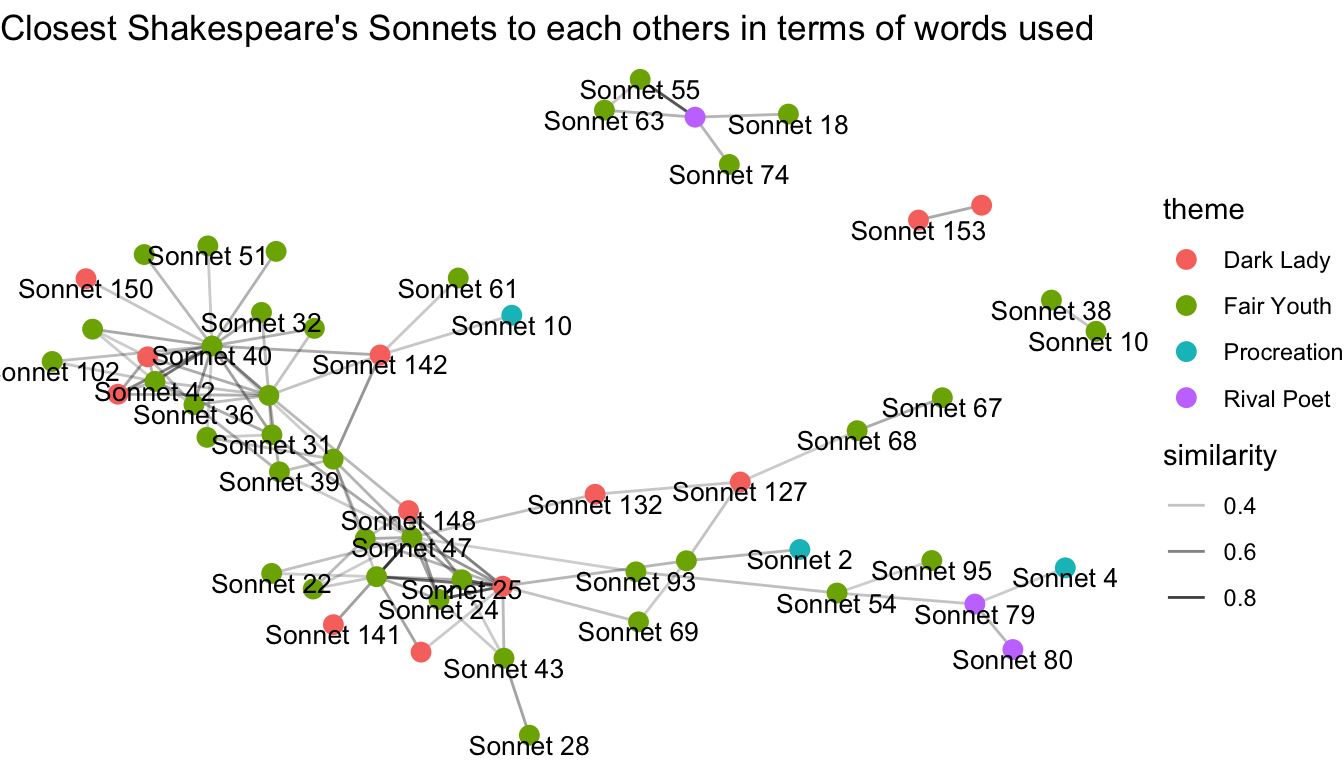
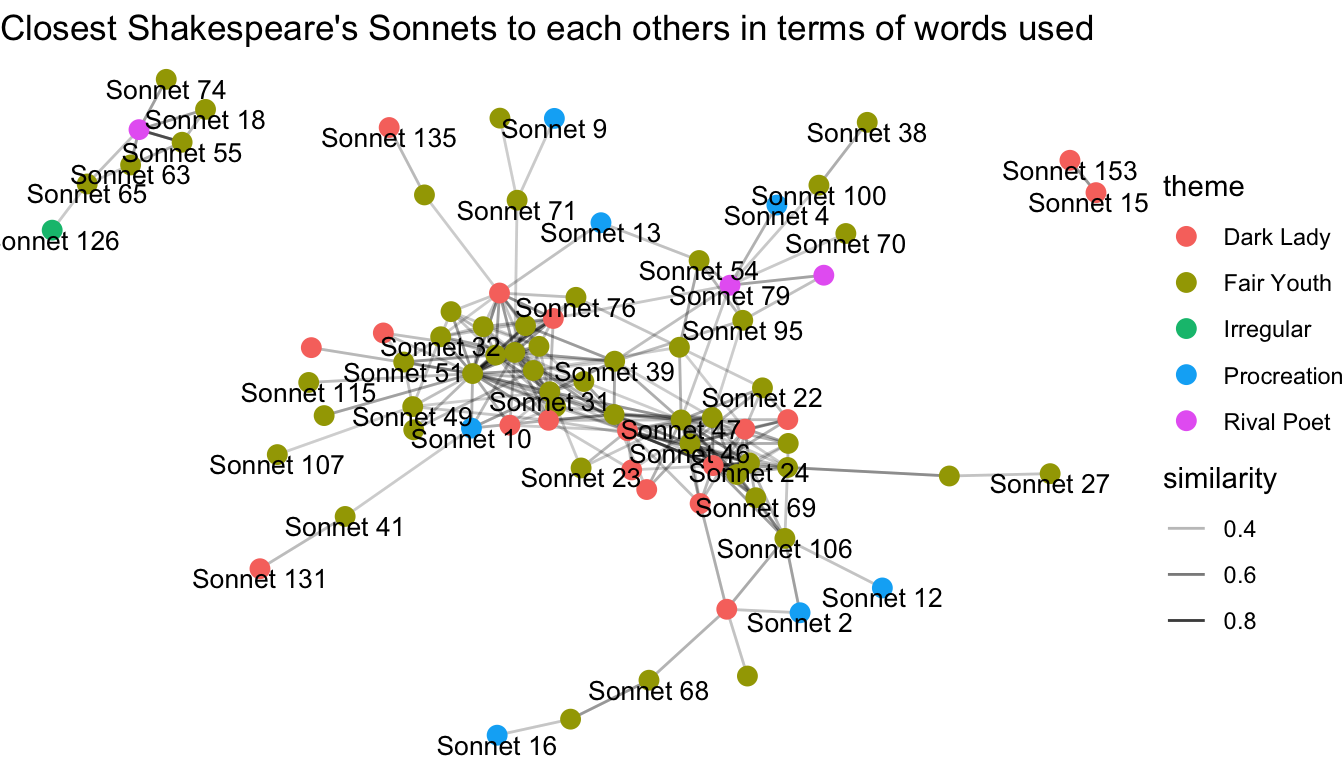
Website for CRAN release 0.1.4

Changed region(s): [[0.0, 0.0938, 1.0, 1.0]]

diff --git a/wikisourcer/articles/wikisourcer.html b/wikisourcer/articles/wikisourcer.html
@@ -30,7 +30,7 @@
       </button>
       <span class="navbar-brand">
         <a class="navbar-link" href="../index.html">wikisourcer</a>
-        <span class="label label-default" data-toggle="tooltip" data-placement="bottom" title="Released package">0.1.3</span>
+        <span class="label label-default" data-toggle="tooltip" data-placement="bottom" title="Released package">0.1.4</span>
       </span>
     </div>
 
@@ -163,42 +163,47 @@
 <a href="#download-pages" class="anchor"></a>Download pages</h2>
 <p>The <code>wikisource_book</code> function sometimes doesn’t work. It happens when the main url path differs from the ones of the linked urls or when the function fails to identify correctly the linked urls. This issue can easily be fixed using the <code>wikisource_page</code> function.</p>
 <p>The <code>wikisource_page</code> function has two arguments, i.e. the Wikisource url and an optional title for the page. For example, we can download <em>Sonnet 18</em> of William Shakespeare.</p>
-<div class="sourceCode" id="cb6"><pre class="sourceCode r"><code class="sourceCode r"><a class="sourceLine" id="cb6-1" data-line-number="1"><span class="kw"><a href="../reference/wikisource_page.html">wikisource_page</a></span>(<span class="dt">wikiurl =</span> <span class="st">"https://en.wikisource.org/wiki/Shakespeare%27s_Sonnets/Sonnet_18"</span>, </a>
-<a class="sourceLine" id="cb6-2" data-line-number="2">                <span class="dt">page =</span> <span class="st">"Sonnet 18"</span>)</a></code></pre></div>
-<pre><code>## # A tibble: 35 x 4
-##    text                   page    language url                             
-##    &lt;chr&gt;                  &lt;chr&gt;   &lt;chr&gt;    &lt;chr&gt;                           
-##  1 ""                     Sonnet… en       https://en.wikisource.org/wiki/…
-##  2 ""                     Sonnet… en       https://en.wikisource.org/wiki/…
-##  3 ""                     Sonnet… en       https://en.wikisource.org/wiki/…
-##  4 XVIII.                 Sonnet… en       https://en.wikisource.org/wiki/…
-##  5 ""                     Sonnet… en       https://en.wikisource.org/wiki/…
-##  6 ""                     Sonnet… en       https://en.wikisource.org/wiki/…
-##  7 ""                     Sonnet… en       https://en.wikisource.org/wiki/…
-##  8 ""                     Sonnet… en       https://en.wikisource.org/wiki/…
-##  9 Shall I compare thee … Sonnet… en       https://en.wikisource.org/wiki/…
-## 10 Thou art more lovely … Sonnet… en       https://en.wikisource.org/wiki/…
-## # … with 25 more rows</code></pre>
-<p>The <code>wikisource_book</code> function fails to download the 154 Sonnets from the main url “<a href="https://en.wikisource.org/wiki/Shakespeare%27s_Sonnets/" class="uri">https://en.wikisource.org/wiki/Shakespeare%27s_Sonnets/</a>”. We have to use <code>wikisource_page</code> to download them.</p>
+<div class="sourceCode" id="cb6"><pre class="sourceCode r"><code class="sourceCode r"><a class="sourceLine" id="cb6-1" data-line-number="1"><span class="kw"><a href="../reference/wikisource_page.html">wikisource_page</a></span>(<span class="st">"https://en.wikisource.org/wiki/Shakespeare's_Sonnets_(1883)/Sonnet_18"</span>, </a>
+<a class="sourceLine" id="cb6-2" data-line-number="2">                <span class="dt">page =</span> <span class="st">"Sonnet 18"</span>) <span class="op">%&gt;%</span></a>
+<a class="sourceLine" id="cb6-3" data-line-number="3"><span class="st">  </span>dplyr<span class="op">::</span><span class="kw"><a href="https://dplyr.tidyverse.org/reference/filter.html">filter</a></span>(<span class="op">!</span>(text <span class="op">%in%</span><span class="st"> </span><span class="kw">c</span>(<span class="st">""</span>,<span class="st">" "</span>))) <span class="co">#remove blank rows</span></a></code></pre></div>
+<pre><code>## # A tibble: 15 x 4
+##    text                     page    language url                           
+##    &lt;chr&gt;                    &lt;chr&gt;   &lt;chr&gt;    &lt;chr&gt;                         
+##  1 XVIII.                   Sonnet… en       https://en.wikisource.org/wik…
+##  2 Shall I compare thee to… Sonnet… en       https://en.wikisource.org/wik…
+##  3 Thou art more lovely an… Sonnet… en       https://en.wikisource.org/wik…
+##  4 Rough winds do shake th… Sonnet… en       https://en.wikisource.org/wik…
+##  5 And summer's lease hath… Sonnet… en       https://en.wikisource.org/wik…
+##  6 Sometime too hot the ey… Sonnet… en       https://en.wikisource.org/wik…
+##  7 And often is his gold c… Sonnet… en       https://en.wikisource.org/wik…
+##  8 And every fair from fai… Sonnet… en       https://en.wikisource.org/wik…
+##  9 By chance, or nature's … Sonnet… en       https://en.wikisource.org/wik…
+## 10 But thy eternal summer … Sonnet… en       https://en.wikisource.org/wik…
+## 11 Nor lose possession of … Sonnet… en       https://en.wikisource.org/wik…
+## 12 Nor shall death brag th… Sonnet… en       https://en.wikisource.org/wik…
+## 13 When in eternal lines t… Sonnet… en       https://en.wikisource.org/wik…
+## 14     So long as men can … Sonnet… en       https://en.wikisource.org/wik…
+## 15     So long lives this,… Sonnet… en       https://en.wikisource.org/wik…</code></pre>
+<p>The <code>wikisource_book</code> function fails to download the 154 Sonnets from the main url “<a href="https://en.wikisource.org/wiki/Shakespeare's_Sonnets" class="uri">https://en.wikisource.org/wiki/Shakespeare's_Sonnets</a>”. We have to use <code>wikisource_page</code> to download them.</p>
 <p>Let’s begin by creating a list of the 154 wikipages we want to download, using the R base function <code>paste0</code>.</p>
-<div class="sourceCode" id="cb8"><pre class="sourceCode r"><code class="sourceCode r"><a class="sourceLine" id="cb8-1" data-line-number="1">urls &lt;-<span class="st"> </span><span class="kw">paste0</span>(<span class="st">"https://en.wikisource.org/wiki/Shakespeare%27s_Sonnets/Sonnet_"</span>, <span class="dv">1</span><span class="op">:</span><span class="dv">154</span>)</a></code></pre></div>
+<div class="sourceCode" id="cb8"><pre class="sourceCode r"><code class="sourceCode r"><a class="sourceLine" id="cb8-1" data-line-number="1">urls &lt;-<span class="st"> </span><span class="kw">paste0</span>(<span class="st">"https://en.wikisource.org/wiki/Shakespeare's_Sonnets_(1883)/Sonnet_"</span>, <span class="dv">1</span><span class="op">:</span><span class="dv">154</span>)</a></code></pre></div>
 <p>Now we can download all the Sonnets with <code>purrr</code>.</p>
 <div class="sourceCode" id="cb9"><pre class="sourceCode r"><code class="sourceCode r"><a class="sourceLine" id="cb9-1" data-line-number="1">sonnets &lt;-<span class="st"> </span>purrr<span class="op">::</span><span class="kw"><a href="https://purrr.tidyverse.org/reference/map2.html">map2_df</a></span>(urls, <span class="kw">paste0</span>(<span class="st">"Sonnet "</span>, <span class="dv">1</span><span class="op">:</span><span class="dv">154</span>), wikisource_page)</a>
 <a class="sourceLine" id="cb9-2" data-line-number="2">sonnets</a></code></pre></div>
-<pre><code>## # A tibble: 3,618 x 4
-##    text                   page   language url                              
-##    &lt;chr&gt;                  &lt;chr&gt;  &lt;chr&gt;    &lt;chr&gt;                            
-##  1 ""                     Sonne… en       https://en.wikisource.org/wiki/S…
-##  2 ""                     Sonne… en       https://en.wikisource.org/wiki/S…
-##  3 ""                     Sonne… en       https://en.wikisource.org/wiki/S…
-##  4 HEAD OF EROS (CUPID),… Sonne… en       https://en.wikisource.org/wiki/S…
-##  5 ""                     Sonne… en       https://en.wikisource.org/wiki/S…
-##  6 "SONNETS. "            Sonne… en       https://en.wikisource.org/wiki/S…
-##  7 I.                     Sonne… en       https://en.wikisource.org/wiki/S…
-##  8 ""                     Sonne… en       https://en.wikisource.org/wiki/S…
-##  9 ""                     Sonne… en       https://en.wikisource.org/wiki/S…
-## 10 ""                     Sonne… en       https://en.wikisource.org/wiki/S…
-## # … with 3,608 more rows</code></pre>
+<pre><code>## # A tibble: 4,780 x 4
+##    text                  page    language url                              
+##    &lt;chr&gt;                 &lt;chr&gt;   &lt;chr&gt;    &lt;chr&gt;                            
+##  1 ""                    Sonnet… en       https://en.wikisource.org/wiki/S…
+##  2 ""                    Sonnet… en       https://en.wikisource.org/wiki/S…
+##  3 ""                    Sonnet… en       https://en.wikisource.org/wiki/S…
+##  4 HEAD OF EROS (CUPID)… Sonnet… en       https://en.wikisource.org/wiki/S…
+##  5 ""                    Sonnet… en       https://en.wikisource.org/wiki/S…
+##  6 "SONNETS. "           Sonnet… en       https://en.wikisource.org/wiki/S…
+##  7 I.                    Sonnet… en       https://en.wikisource.org/wiki/S…
+##  8 ""                    Sonnet… en       https://en.wikisource.org/wiki/S…
+##  9 ""                    Sonnet… en       https://en.wikisource.org/wiki/S…
+## 10 ""                    Sonnet… en       https://en.wikisource.org/wiki/S…
+## # … with 4,770 more rows</code></pre>
 <p>We can make a text similarity analysis. Which sonnets are the closest to each others in terms of words used?</p>
 <div class="sourceCode" id="cb11"><pre class="sourceCode r"><code class="sourceCode r"><a class="sourceLine" id="cb11-1" data-line-number="1"><span class="kw">library</span>(widyr)</a>
 <a class="sourceLine" id="cb11-2" data-line-number="2"><span class="kw">library</span>(SnowballC)</a>
@@ -213,7 +218,7 @@
 <a class="sourceLine" id="cb11-11" data-line-number="11"><span class="st">  </span><span class="kw"><a href="https://dplyr.tidyverse.org/reference/mutate.html">mutate</a></span>(<span class="dt">wordStem =</span> SnowballC<span class="op">::</span><span class="kw"><a href="http://www.rdocumentation.org/packages/SnowballC/topics/wordStem">wordStem</a></span>(word)) <span class="op">%&gt;%</span><span class="st"> </span><span class="co">#Stemming</span></a>
 <a class="sourceLine" id="cb11-12" data-line-number="12"><span class="st">  </span><span class="kw"><a href="https://dplyr.tidyverse.org/reference/tally.html">count</a></span>(page, wordStem) <span class="op">%&gt;%</span></a>
 <a class="sourceLine" id="cb11-13" data-line-number="13"><span class="st">  </span>widyr<span class="op">::</span><span class="kw"><a href="http://www.rdocumentation.org/packages/widyr/topics/pairwise_similarity">pairwise_similarity</a></span>(page, wordStem, n) <span class="op">%&gt;%</span></a>
-<a class="sourceLine" id="cb11-14" data-line-number="14"><span class="st">  </span><span class="kw"><a href="https://dplyr.tidyverse.org/reference/filter.html">filter</a></span>(similarity <span class="op">&gt;</span><span class="st"> </span><span class="fl">0.3</span>)</a>
+<a class="sourceLine" id="cb11-14" data-line-number="14"><span class="st">  </span><span class="kw"><a href="https://dplyr.tidyverse.org/reference/filter.html">filter</a></span>(similarity <span class="op">&gt;</span><span class="st"> </span><span class="fl">0.25</span>)</a>
 <a class="sourceLine" id="cb11-15" data-line-number="15"></a>
 <a class="sourceLine" id="cb11-16" data-line-number="16"><span class="co"># themes by sonnet </span></a>
 <a class="sourceLine" id="cb11-17" data-line-number="17">theme &lt;-<span class="st"> </span><span class="kw"><a href="https://dplyr.tidyverse.org/reference/reexports.html">data_frame</a></span>(<span class="dt">page =</span> <span class="kw">unique</span>(sonnets<span class="op">$</span>page),</a>
@@ -249,7 +254,7 @@
 <a class="sourceLine" id="cb12-7" data-line-number="7"><span class="st">  </span><span class="kw"><a href="https://dplyr.tidyverse.org/reference/join.html">inner_join</a></span>(<span class="kw"><a href="http://www.rdocumentation.org/packages/tidytext/topics/get_sentiments">get_sentiments</a></span>(<span class="st">"bing"</span>)) <span class="op">%&gt;%</span></a>
 <a class="sourceLine" id="cb12-8" data-line-number="8"><span class="st">  </span><span class="kw"><a href="https://dplyr.tidyverse.org/reference/join.html">anti_join</a></span>(<span class="kw"><a href="http://www.rdocumentation.org/packages/tidytext/topics/get_stopwords">get_stopwords</a></span>(<span class="st">"en"</span>)) <span class="op">%&gt;%</span></a>
 <a class="sourceLine" id="cb12-9" data-line-number="9"><span class="st">  </span><span class="kw"><a href="https://dplyr.tidyverse.org/reference/tally.html">count</a></span>(page, sentiment) <span class="op">%&gt;%</span></a>
-<a class="sourceLine" id="cb12-10" data-line-number="10"><span class="st">  </span><span class="kw"><a href="http://www.rdocumentation.org/packages/tidyr/topics/spread">spread</a></span>(<span class="dt">key =</span> sentiment, <span class="dt">value =</span> n) <span class="op">%&gt;%</span></a>
+<a class="sourceLine" id="cb12-10" data-line-number="10"><span class="st">  </span><span class="kw"><a href="https://tidyr.tidyverse.org/reference/spread.html">spread</a></span>(<span class="dt">key =</span> sentiment, <span class="dt">value =</span> n) <span class="op">%&gt;%</span></a>
 <a class="sourceLine" id="cb12-11" data-line-number="11"><span class="st">  </span><span class="kw"><a href="https://dplyr.tidyverse.org/reference/mutate.html">mutate</a></span>(<span class="dt">sentiment =</span> positive <span class="op">-</span><span class="st"> </span>negative)</a>
 <a class="sourceLine" id="cb12-12" data-line-number="12"></a>
 <a class="sourceLine" id="cb12-13" data-line-number="13"><span class="kw"><a href="http://www.rdocumentation.org/packages/ggplot2/topics/ggplot">ggplot</a></span>(jane_sent, <span class="kw"><a href="http://www.rdocumentation.org/packages/ggplot2/topics/aes">aes</a></span>(page, sentiment)) <span class="op">+</span></a>

diff --git a/wikisourcer/reference/wikisource_page.html b/wikisourcer/reference/wikisource_page.html
@@ -63,7 +63,7 @@
       </button>
       <span class="navbar-brand">
         <a class="navbar-link" href="../index.html">wikisourcer</a>
-        <span class="label label-default" data-toggle="tooltip" data-placement="bottom" title="Released package">0.1.3</span>
+        <span class="label label-default" data-toggle="tooltip" data-placement="bottom" title="Released package">0.1.4</span>
       </span>
     </div>
 
@@ -137,7 +137,7 @@
     
     </div>
 
-    <pre class="usage"><span class='fu'>wikisource_page</span>(<span class='no'>wikiurl</span>, <span class='kw'>page</span> <span class='kw'>=</span> <span class='fl'>NA</span>)</pre>
+    <pre class="usage"><span class='fu'>wikisource_page</span>(<span class='no'>wikiurl</span>, <span class='kw'>page</span> <span class='kw'>=</span> <span class='fl'>NA</span>, <span class='kw'>cleaned</span> <span class='kw'>=</span> <span class='fl'>TRUE</span>)</pre>
     
     <h2 class="hasAnchor" id="arguments"><a class="anchor" href="#arguments"></a>Arguments</h2>
     <table class="ref-arguments">
@@ -150,6 +150,10 @@ be downloaded.</p></td>
     <tr>
       <th>page</th>
       <td><p>A string naming the Wikisource page downloaded.</p></td>
+    </tr>
+    <tr>
+      <th>cleaned</th>
+      <td><p>A boolean variable for cleaning the Wikisource page.</p></td>
     </tr>
     </table>
     
@@ -173,7 +177,7 @@ with four columns.</p>
     <pre class="examples"><div class='input'>
 </div><span class='co'># NOT RUN {</span>
 <span class='co'># download Sonnet 18 of Shakespeare</span>
-<span class='fu'>wikisource_page</span>(<span class='kw'>wikiurl</span> <span class='kw'>=</span> <span class='st'>"https://en.wikisource.org/wiki/Shakespeare%27s_Sonnets/Sonnet_18"</span>, <span class='kw'>page</span> <span class='kw'>=</span> <span class='st'>"Sonnet 18"</span>)
+<span class='fu'>wikisource_page</span>(<span class='st'>"https://en.wikisource.org/wiki/Shakespeare%27s_Sonnets/Sonnet_18"</span>, <span class='st'>"Sonnet 18"</span>)
 
 <span class='co'># download Sonnets 116, 73 and 130 of Shakespeare</span>
 <span class='fu'>library</span>(<span class='no'>purrr</span>)

diff --git a/wikisourcer/index.html b/wikisourcer/index.html
@@ -30,7 +30,7 @@
       </button>
       <span class="navbar-brand">
         <a class="navbar-link" href="index.html">wikisourcer</a>
-        <span class="label label-default" data-toggle="tooltip" data-placement="bottom" title="Released package">0.1.3</span>
+        <span class="label label-default" data-toggle="tooltip" data-placement="bottom" title="Released package">0.1.4</span>
       </span>
     </div>
 
@@ -120,7 +120,7 @@
 <a class="sourceLine" id="cb2-2" data-line-number="2"></a>
 <a class="sourceLine" id="cb2-3" data-line-number="3"><span class="kw"><a href="reference/wikisource_book.html">wikisource_book</a></span>(<span class="dt">url =</span> <span class="st">"https://en.wikisource.org/wiki/Candide"</span>)</a></code></pre></div>
 <p>Download Chapter 1 of <em>Candide</em>.</p>
-<div class="sourceCode" id="cb3"><pre class="sourceCode r"><code class="sourceCode r"><a class="sourceLine" id="cb3-1" data-line-number="1"><span class="kw"><a href="reference/wikisource_page.html">wikisource_page</a></span>(<span class="dt">wikiurl =</span> <span class="st">"https://en.wikisource.org/wiki/Candide/Chapter_1"</span>, </a>
+<div class="sourceCode" id="cb3"><pre class="sourceCode r"><code class="sourceCode r"><a class="sourceLine" id="cb3-1" data-line-number="1"><span class="kw"><a href="reference/wikisource_page.html">wikisource_page</a></span>(<span class="st">"https://en.wikisource.org/wiki/Candide/Chapter_1"</span>, </a>
 <a class="sourceLine" id="cb3-2" data-line-number="2">                <span class="dt">page =</span> <span class="st">"Chapter 1"</span>)</a></code></pre></div>
 <p>Download <em>Candide</em> in French, Spanish and Italian.</p>
 <div class="sourceCode" id="cb4"><pre class="sourceCode r"><code class="sourceCode r"><a class="sourceLine" id="cb4-1" data-line-number="1"><span class="kw">library</span>(purrr)</a>

diff --git a/wikisourcer/news/index.html b/wikisourcer/news/index.html
@@ -61,7 +61,7 @@
       </button>
       <span class="navbar-brand">
         <a class="navbar-link" href="../index.html">wikisourcer</a>
-        <span class="label label-default" data-toggle="tooltip" data-placement="bottom" title="Released package">0.1.3</span>
+        <span class="label label-default" data-toggle="tooltip" data-placement="bottom" title="Released package">0.1.4</span>
       </span>
     </div>
 
@@ -130,12 +130,21 @@
 
     <div id="wikisourcer-0-1-3" class="section level1">
 <h1 class="page-header">
-<a href="#wikisourcer-0-1-3" class="anchor"></a>wikisourcer 0.1.3<small> Unreleased </small>
+<a href="#wikisourcer-0-1-3" class="anchor"></a>wikisourcer 0.1.3<small> 2019-03-17 </small>
 </h1>
 <ul>
 <li>Added a <code>NEWS.md</code> file to track changes to the package.</li>
 <li>Fixed and improved vignette.</li>
 <li>Removed <code>dplyr</code> and <code>stringr</code>dependencies.</li>
+<li>Added the boolean <code>cleaned</code> variables to give the possibility to download all the metadata of the wikipages.</li>
+</ul>
+</div>
+    <div id="wikisourcer-0-1-4" class="section level1">
+<h1 class="page-header">
+<a href="#wikisourcer-0-1-4" class="anchor"></a>wikisourcer 0.1.4<small> Unreleased </small>
+</h1>
+<ul>
+<li>Fixed vignette links.</li>
 </ul>
 </div>
   </div>
@@ -145,6 +154,7 @@
       <h2>Contents</h2>
       <ul class="nav nav-pills nav-stacked">
         <li><a href="#wikisourcer-0-1-3">0.1.3</a></li>
+        <li><a href="#wikisourcer-0-1-4">0.1.4</a></li>
       </ul>
     </div>
   </div>

diff --git a/wikisourcer/reference/wikisource_book.html b/wikisourcer/reference/wikisource_book.html
@@ -66,7 +66,7 @@ pages is downloaded using the wikisource_page() function." />
       </button>
       <span class="navbar-brand">
         <a class="navbar-link" href="../index.html">wikisourcer</a>
-        <span class="label label-default" data-toggle="tooltip" data-placement="bottom" title="Released package">0.1.3</span>
+        <span class="label label-default" data-toggle="tooltip" data-placement="bottom" title="Released package">0.1.4</span>
       </span>
     </div>
 
@@ -143,7 +143,7 @@ pages is downloaded using the <code><a href='wikisource_page.html'>wikisource_pa
     
     </div>
 
-    <pre class="usage"><span class='fu'>wikisource_book</span>(<span class='no'>url</span>)</pre>
+    <pre class="usage"><span class='fu'>wikisource_book</span>(<span class='no'>url</span>, <span class='kw'>cleaned</span> <span class='kw'>=</span> <span class='fl'>TRUE</span>)</pre>
     
     <h2 class="hasAnchor" id="arguments"><a class="anchor" href="#arguments"></a>Arguments</h2>
     <table class="ref-arguments">
@@ -152,6 +152,10 @@ pages is downloaded using the <code><a href='wikisource_page.html'>wikisource_pa
       <th>url</th>
       <td><p>A url of a Wikisource content page listing the pages
 constituting the book.</p></td>
+    </tr>
+    <tr>
+      <th>cleaned</th>
+      <td><p>A boolean variable for cleaning Wikisource pages.</p></td>
     </tr>
     </table>
     

diff --git a/wikisourcer/articles/index.html b/wikisourcer/articles/index.html
@@ -61,7 +61,7 @@
       </button>
       <span class="navbar-brand">
         <a class="navbar-link" href="../index.html">wikisourcer</a>
-        <span class="label label-default" data-toggle="tooltip" data-placement="bottom" title="Released package">0.1.3</span>
+        <span class="label label-default" data-toggle="tooltip" data-placement="bottom" title="Released package">0.1.4</span>
       </span>
     </div>
 

diff --git a/wikisourcer/reference/index.html b/wikisourcer/reference/index.html
@@ -61,7 +61,7 @@
       </button>
       <span class="navbar-brand">
         <a class="navbar-link" href="../index.html">wikisourcer</a>
-        <span class="label label-default" data-toggle="tooltip" data-placement="bottom" title="Released package">0.1.3</span>
+        <span class="label label-default" data-toggle="tooltip" data-placement="bottom" title="Released package">0.1.4</span>
       </span>
     </div>
 

diff --git a/wikisourcer/LICENSE-text.html b/wikisourcer/LICENSE-text.html
@@ -61,7 +61,7 @@
       </button>
       <span class="navbar-brand">
         <a class="navbar-link" href="index.html">wikisourcer</a>
-        <span class="label label-default" data-toggle="tooltip" data-placement="bottom" title="Released package">0.1.3</span>
+        <span class="label label-default" data-toggle="tooltip" data-placement="bottom" title="Released package">0.1.4</span>
       </span>
     </div>
 

diff --git a/wikisourcer/authors.html b/wikisourcer/authors.html
@@ -61,7 +61,7 @@
       </button>
       <span class="navbar-brand">
         <a class="navbar-link" href="index.html">wikisourcer</a>
-        <span class="label label-default" data-toggle="tooltip" data-placement="bottom" title="Released package">0.1.3</span>
+        <span class="label label-default" data-toggle="tooltip" data-placement="bottom" title="Released package">0.1.4</span>
       </span>
     </div>
 
